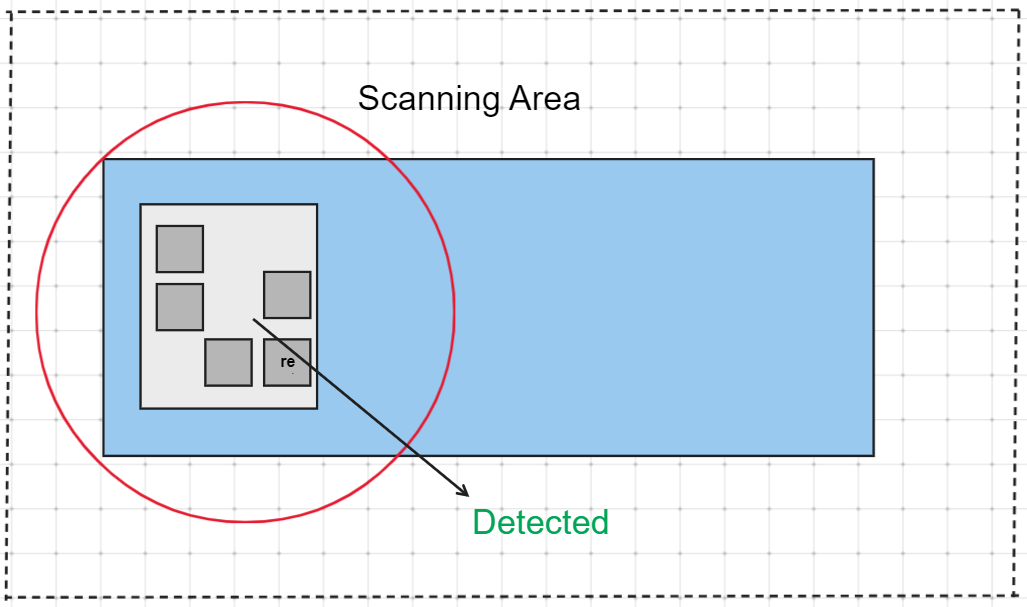
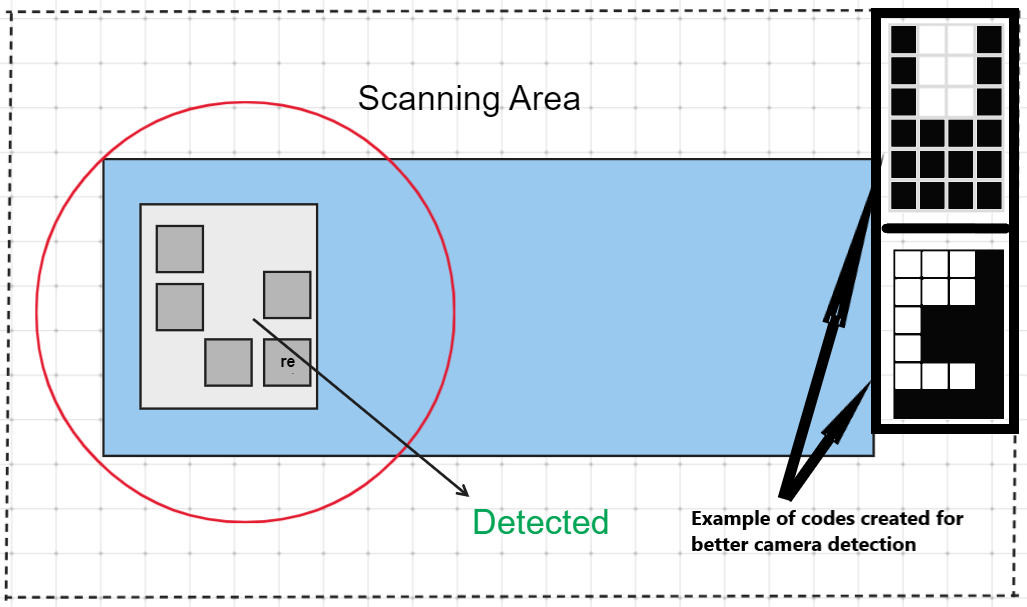
setup

Changed region(s): [[0.6543, 0.0, 0.9971, 0.9193]]

diff --git a/README.md b/README.md
@@ -4,8 +4,8 @@
     1.1 [Project Description](#project-description)  
     1.2 [Project Goals](#project-goals)  
     1.3 [Project Objectives](#project-objectives)  
-2. [HMI PROGRAMS:](#HMI-PROGRAMS)  
-3. [EXAMPLES OF THE HMI PROGRAMS](#examples-of-the-HMI-programs)   
+2. [HMI PROGRAMS:](#hmi-programs)  
+3. [EXAMPLES OF THE HMI PROGRAMS](#examples-of-the-hmi-programs)   
   3.1 [IDEA FOR THE HMI PROGRAM](#hmi-idea-on-paper)   
 4. [TP PROGRAMS](#TP-PROGRAMS)   
     4.1 [TP_MAIN](#TP_MAIN)  
@@ -19,7 +19,7 @@
 5. [HOW TO USE THE CONTROL MENU ON THE TEACH PENDANT](#how-to-use-the-control-menu-on-the-teach-pendant)  
 6. [MAIN PROGRAM](#main-program)  
 7. [BULDING A HOUSE OF BLOCKS](#building-a-house-of-blocks)  
-8. [IDEA FOR THE SORTING PROGRAM](#idea-for-the-sorting-program)  
+8. [IDEAS FOR THE SORTING PROGRAM](#ideas-for-the-sorting-program)  
 9. [SORTING PIECES](#sorting-pieces)  
   9.1 [what does the cycle do?](#what-does-the-cycle-do)  
 10. [REGISTERS INFORMATION](#registers-information)   
@@ -77,7 +77,7 @@ This project description was generated using chatGPT and modified by a human.
 >> Learn about differnt ways to create a communication between the robot and the PLC allowing them to talk and interact in a synchronize way.  
   
 ---  
-## HMI PROGRAMS:
+## HMI PROGRAMS:  
 >#### FANUC_BUILDER.stm
 >> SIMPLEFINDER.stm  
 >> SETUP.stm  
@@ -91,7 +91,7 @@ HTML, CSS, Javascript, IE, and the Fanuc's HMI Builder software.
 </p>  
 
 ---  
-## EXAMPLES OF THE HMI PROGRAMS:  
+## EXAMPLES OF THE HMI PROGRAMS  
    
 ### ***Main Page  and Objects Sorter Page***    
 FANUC_BUILDER.stm is the main page of this project, by default it displays SIMPLEFINDER.stm but using the tabs menu the user can switch to SETUP.stm and ABOUT.stm.  
@@ -214,11 +214,12 @@ We can check what pieces have been found by looking at the building page.
 ---
 
     
-#### IDEAS OF THE SORTING PROGRAM   
+## IDEAS FOR THE SORTING PROGRAM   
+Since the cameras are very sensitive to light, we decided to use a bar code to identify the pieces and sort them or get information of the object detected. The bar code will be placed on top of the object, the robot will scan the bar code and move the piece to the correct compartment.
   
 ![IDEA OF THE SCANNING CODE PROGRAM ON PAPER](./Main/Images/IDEASCANCODE.png)  
   
-![IDEA OF THE SORTING PROGRAM ON PAPER](./Main/Images/IDEASORTINGBOX.png)  
+![IDEA OF THE SORTING PRO GRAM ON PAPER](./Main/Images/IDEASORTINGBOX.png)  
   
 ## SORTING PIECES 
 1. Place piece on the place area.  
